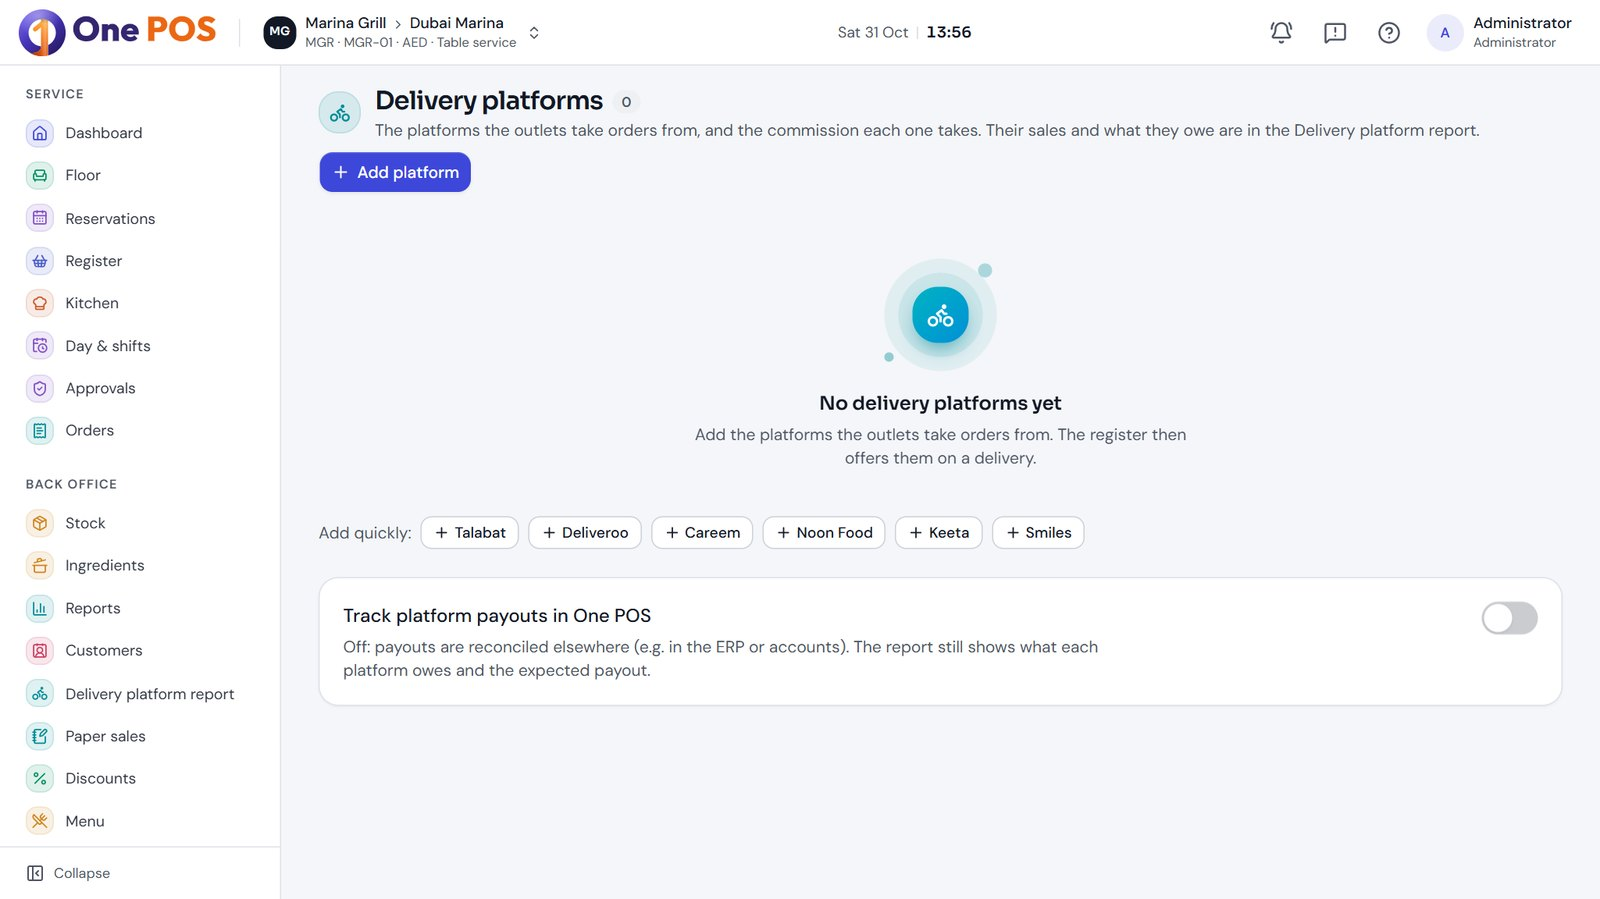
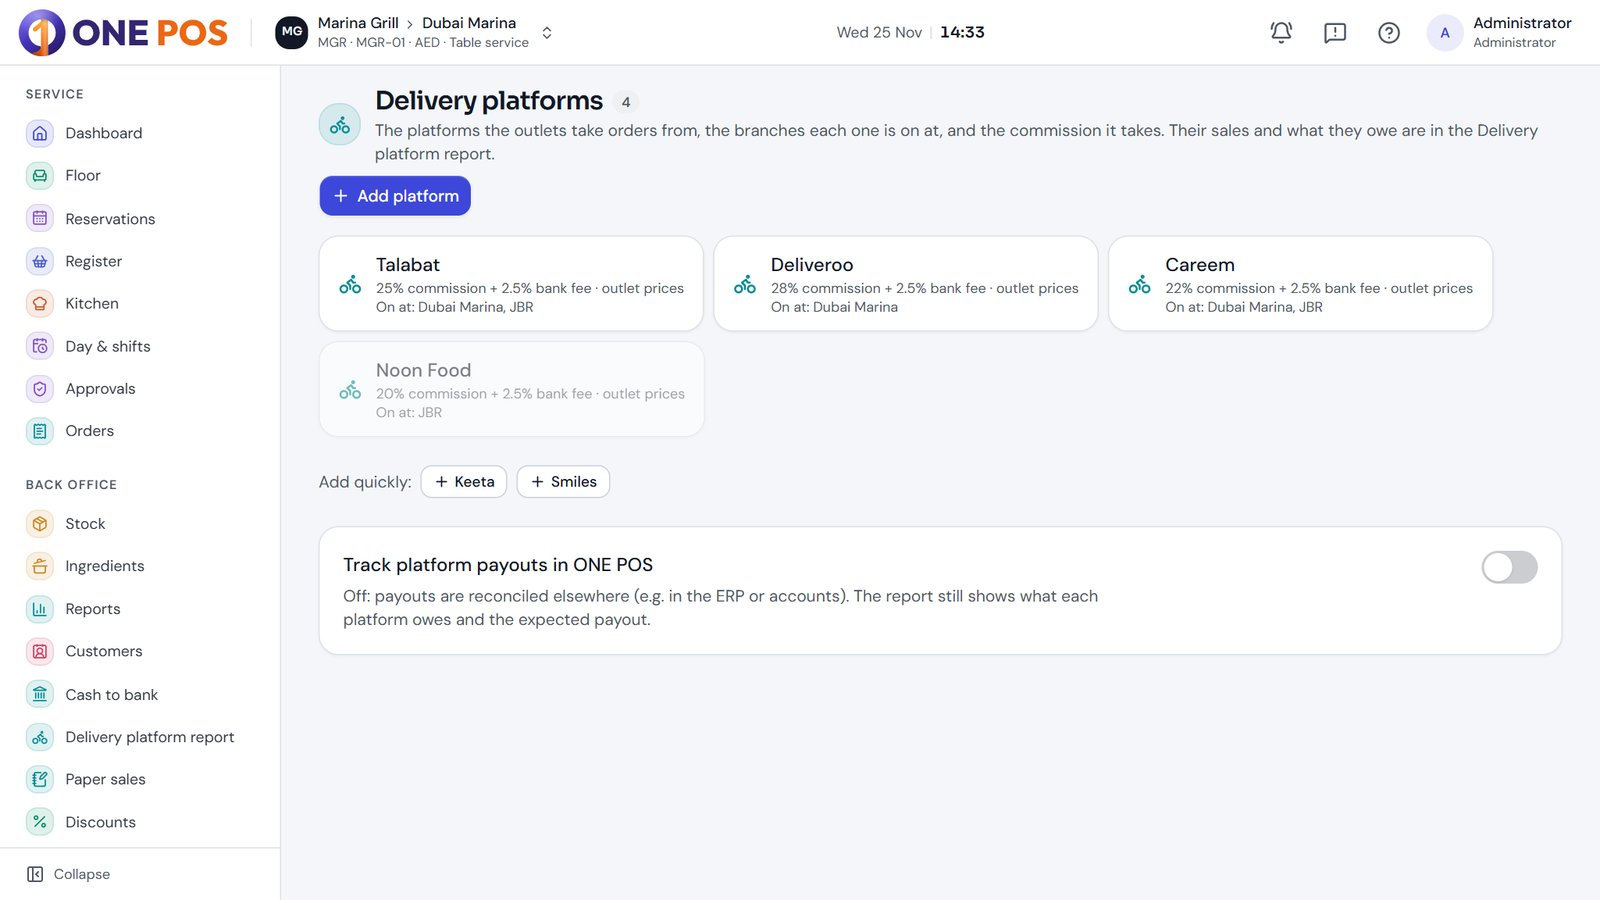
Manual: new Delivery platforms pictures (branches per platform, FACTS payment method per branch) and the demo script that takes them

diff --git a/docs/manual/user-manual.md b/docs/manual/user-manual.md
@@ -628,7 +628,9 @@ Switch **Active** off to stop someone signing in anywhere; **Remove from company
 
 **Add platform** (or **Add quickly:** Talabat, Deliveroo, Careem, Noon Food, Keeta, Smiles) with its **Commission (%)** and **Bank fee (%)**, and link it to its FACTS customer for platform prices. **On at these branches** picks the branches that take its orders: only they see it at the register and on Prices. A new platform starts on at the branch in the header; tap a branch to switch it on or off. Each platform shows the branches it is on at, and is greyed out where it is off at the header branch. A new branch has no platforms until they are switched on for it. **FACTS payment method** picks, for each of those branches, what its bills are paid by in FACTS (e.g. ERBQS TALABAT). It starts on the method whose name matches the platform; **Not chosen: its bills can't post** means none was found, so choose one. A platform missing one at a branch shows **FACTS payment method not chosen** in red. A branch sells on platforms at the FACTS price lists of the location in its **Platform prices from** (Companies & branches → branch, next to Price type), e.g. ERBQS. If it is empty, the branch has no platform prices. **Track platform payouts in ONE POS** adds payouts to the platform report.
 
-![Delivery platforms](images/platforms.jpg)
+![Delivery platforms: each one with its commission and the branches it is on at](images/platforms.jpg)
+
+![A platform: its branches and the FACTS payment method at each](images/platform-dialog.jpg)
 
 ## Devices
 

diff --git a/tools/docs/demo/README.md b/tools/docs/demo/README.md
@@ -7,7 +7,7 @@ never from live, test or anyone's own database.
 2. API (Git Bash, repo root):
    `ASPNETCORE_ENVIRONMENT=Development ASPNETCORE_URLS=http://localhost:5091 ConnectionStrings__Owner="Host=127.0.0.1;Port=5440;Database=onepos;Username=onepos_owner;Password=onepos_owner_dev" ConnectionStrings__App="Host=127.0.0.1;Port=5440;Database=onepos;Username=onepos_app;Password=onepos_app_dev" DataProtection__Keys=<temp dir> Images__Root=<temp dir> dotnet run --project src/OnePos.Api --no-launch-profile`
 3. Web: `cd web; ONEPOS_API_URL=http://localhost:5091 npx next dev -p 3101`
-4. `cd tools/docs/demo; npm i --no-save playwright-core@1.56.1; node seed.mjs; node screenshots.mjs; node dialogs.mjs; node technical.mjs`
+4. `cd tools/docs/demo; npm i --no-save playwright-core@1.56.1; node seed.mjs; node screenshots.mjs; node dialogs.mjs; node platforms.mjs; node technical.mjs`
    (`technical.mjs`: the FACTS screens of the demo FACTS company for the technical docs, and the manual's diagrams as PNGs for the online manual)
 5. Convert `shots/*.png` to 1600 px JPEGs in `docs/manual/images/` (diagrams stay PNG), then `node tools/docs/build-docs.mjs --manual` and `node tools/docs/build-docs.mjs`.
    Screens and diagrams also go into the online manual (Claude Doc): upload them to the doc, create a blob per picture, insert `![caption](blob/<id>)` under the step.
